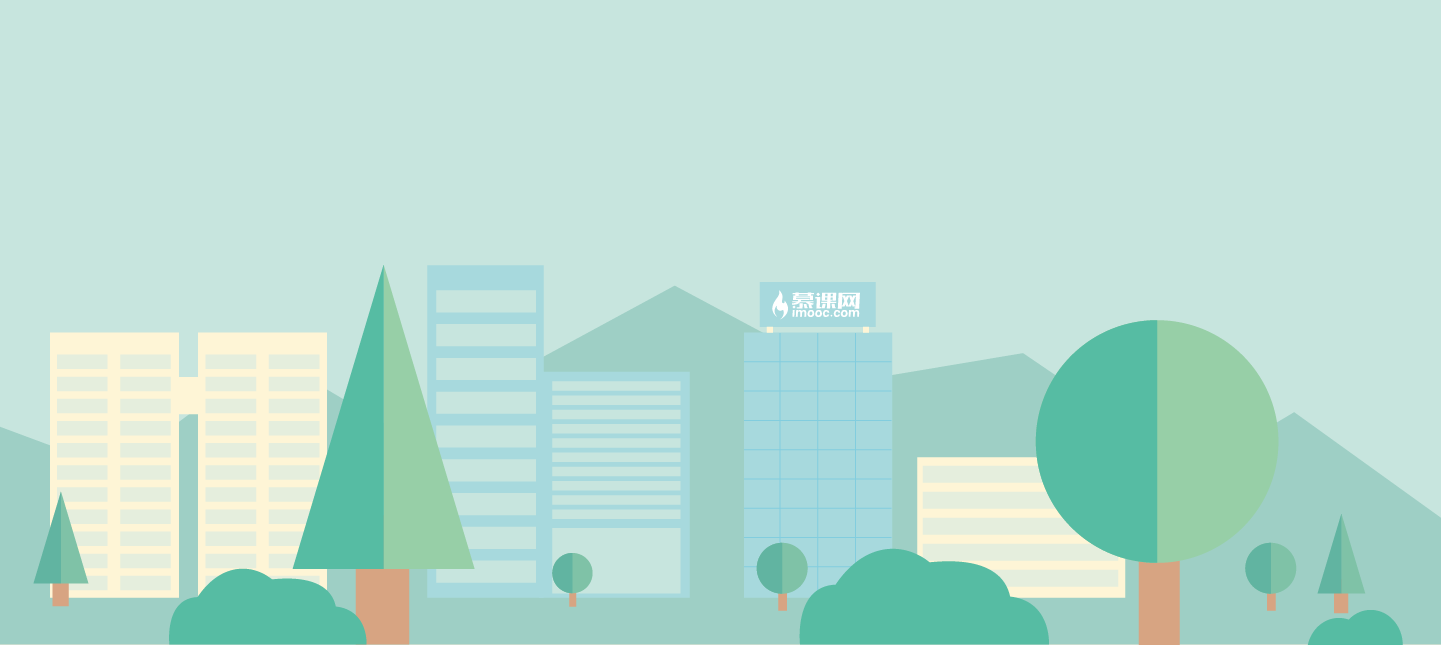
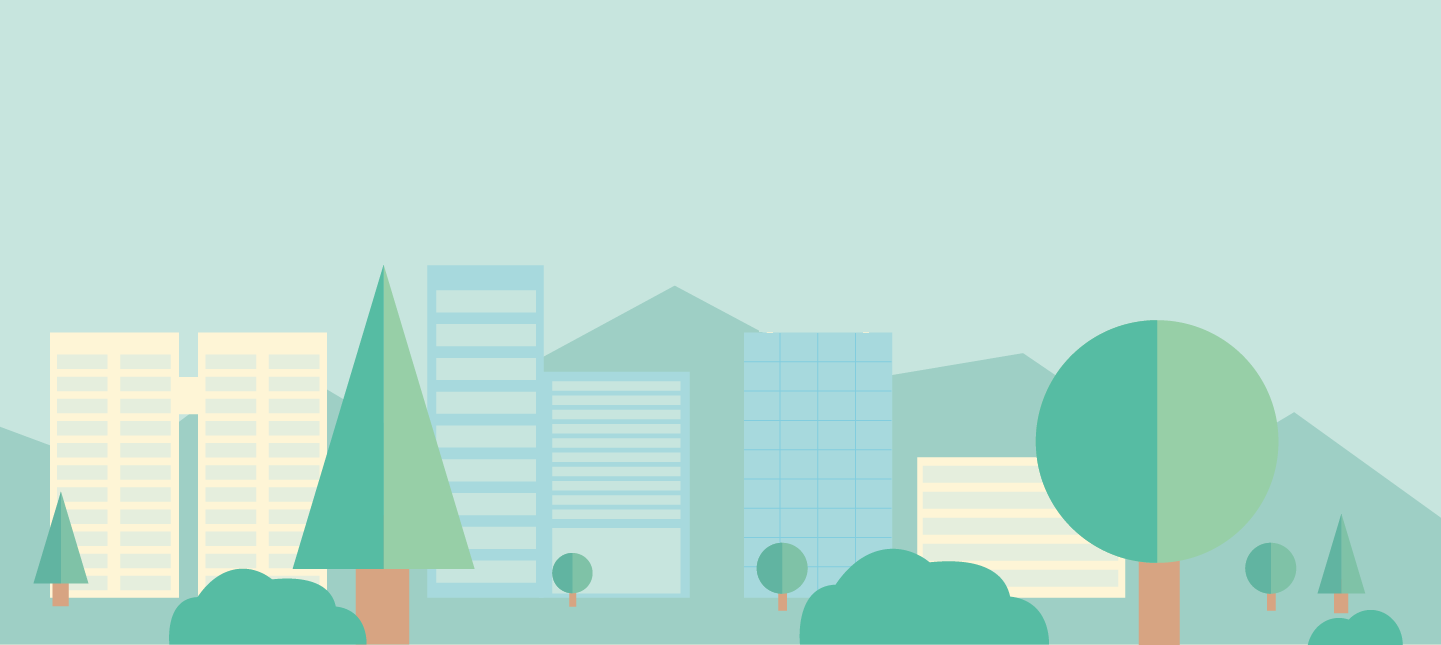
boy_position and background-image

Changed region(s): [[0.4997, 0.4341, 0.6246, 0.5271]]

diff --git a/index.html b/index.html
@@ -5,12 +5,13 @@
     <title>浪漫七夕</title>
     <link href="css/reset.css" rel="stylesheet">
     <link href="css/main.css" rel="stylesheet">
+    <link href="css/pageA.css" rel="stylesheet">
     <script src="js/jquery.min.js"></script>
    <script src="js/main.js"></script>
   <style type="text/css">
       .character{
           width: 151px;
-          height: 191px;
+          height: 291px;
           background: url("images/boy.png") -0px -291px no-repeat;
           position: absolute;
           left: 6%;
@@ -44,8 +45,35 @@
     /*$(".button").click(function () {
      swipe.swipeTo($("#content").width()*2,5000);
     });*/
-
-
+    /*定义一个方法获取元素height和top值*/
+    var getValue=function (className) {
+        var $elem=$(''+className+'');
+        return{
+            height:$elem.height(),
+            top:$elem.position().top
+        };
+    };
+    /*路的Y轴*/
+    /*var pathY=function () {
+        var data=getValue('.a_background_middle');
+        return data.top + data.height/2;
+    }();*/
+    var data=getValue('.a_background_middle');
+    var pathY=data.top + data.height/2;
+    var  $boy=$('#boy');
+    var boyHeight=$boy.height();
+    $boy.css({
+       top:pathY-boyHeight+25
+    });
 </script>
 </body>
 </html>
+
+
+
+
+
+
+
+
+

diff --git a/css/pageA.css b/css/pageA.css
@@ -1,1 +1,42 @@
 @charset "utf-8";
+/*背景图*/
+.a_background{
+    width: 100%;
+    height: 100%;
+    position: absolute;
+}
+.a_background_top{
+    width: 100%;
+    height: 71.6%;
+    background-image: url("../images/a_background_top.png");
+    background-size: 100% 100%;
+}
+.a_background_middle{
+    width: 100%;
+    height: 13.1%;
+    background-image: url("../images/a_background_middle.png");
+    background-size: 100% 100%;
+}
+.a_background_bottom{
+    width: 100%;
+    height: 15.3%;
+    background-image: url("../images/a_background_botton.png");
+    background-size: 100% 100%;
+}
+
+
+
+
+
+
+
+
+
+
+
+
+
+
+
+
+
